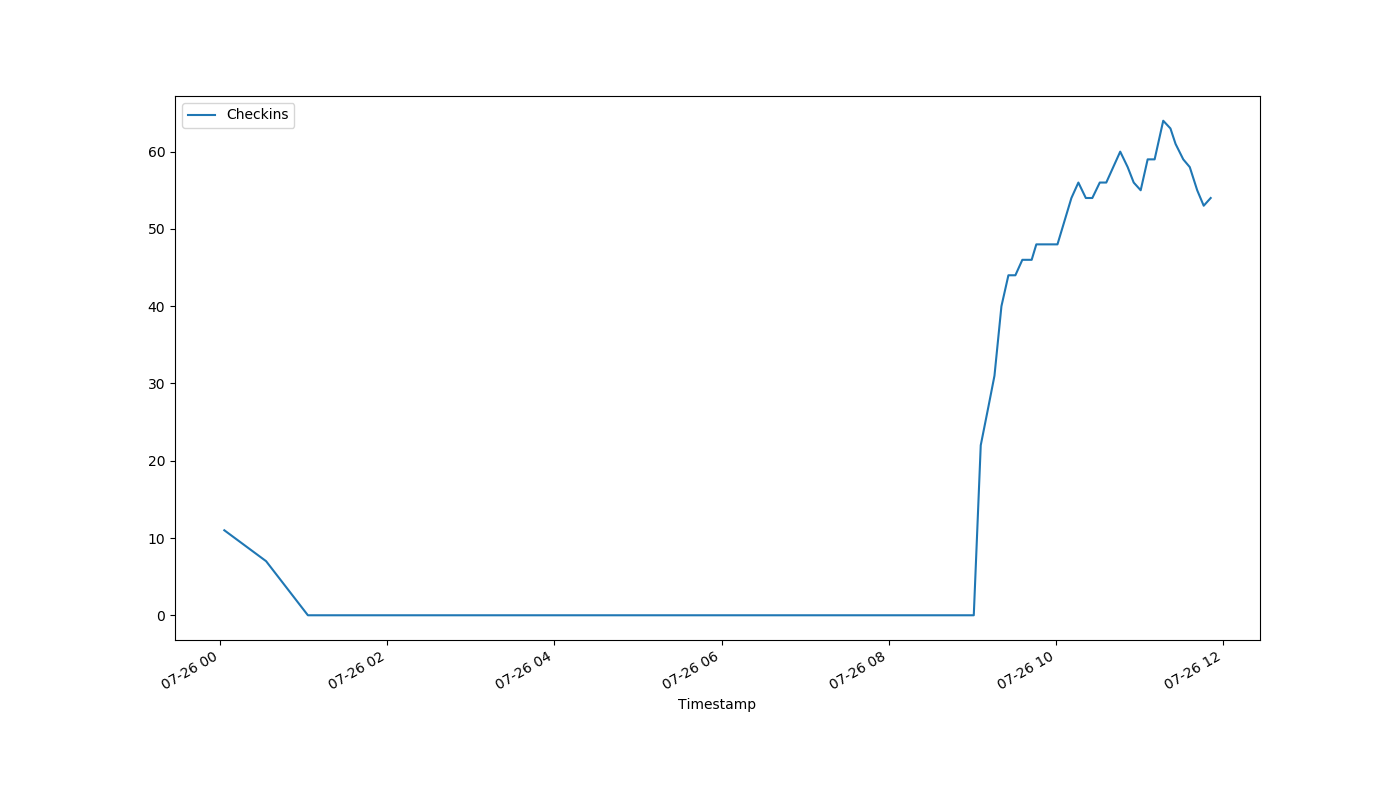
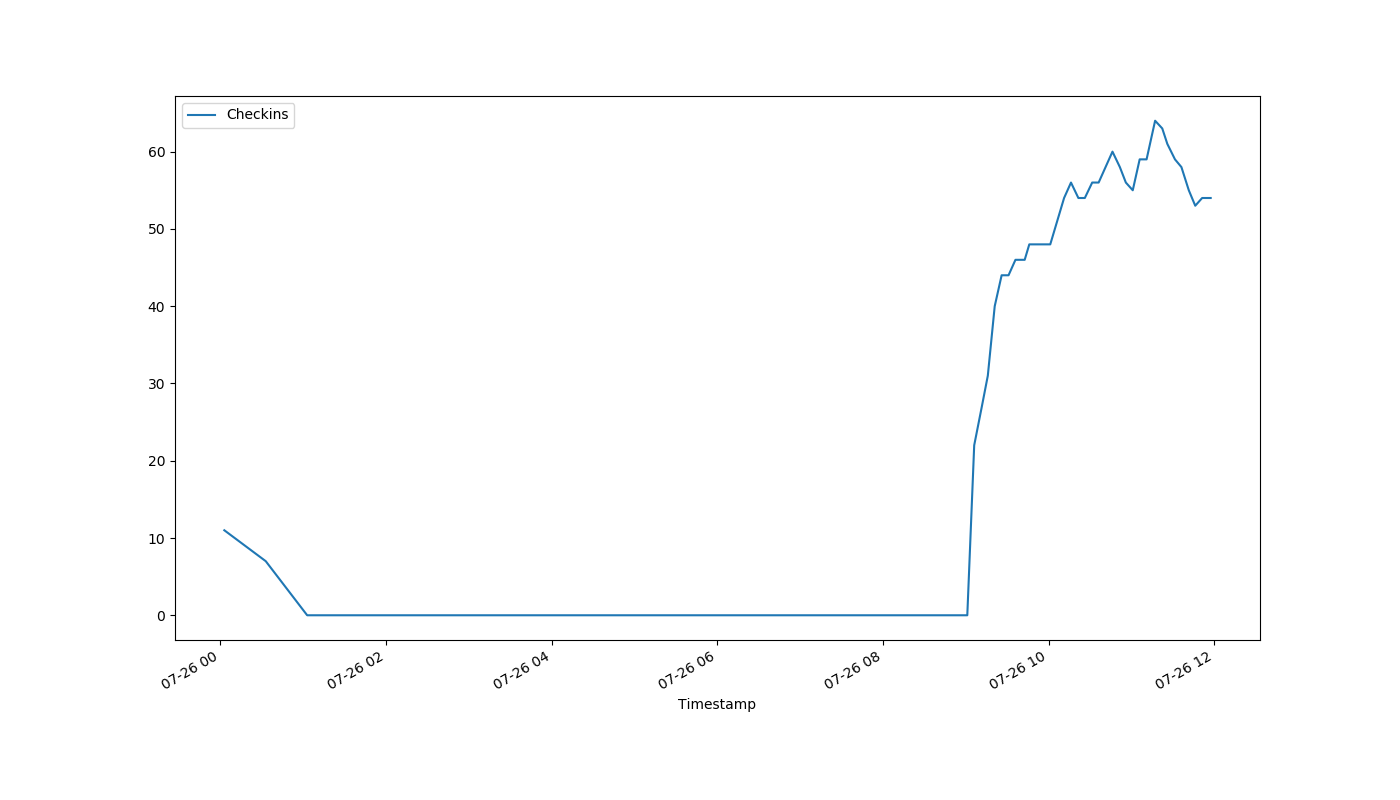
auto-Jul-26-11:59:12

diff --git a/index.html b/index.html
@@ -1,1 +1,1 @@
-<!DOCTYPE html><html><head><meta http-equiv="refresh" content="30"><link rel='stylesheet' href='holmcurrent.css'></head><body><p id='count'>54</p><div id='graph-wrap'><img id='graph' src='holmgraph-Jul-26.png'></div><p id='updated'>Last updated 11:52:00 / 11:51:18</p></body></html>
+<!DOCTYPE html><html><head><meta http-equiv="refresh" content="30"><link rel='stylesheet' href='holmcurrent.css'></head><body><p id='count'>54</p><div id='graph-wrap'><img id='graph' src='holmgraph-Jul-26.png'></div><p id='updated'>Last updated 11:58:00 / 11:57:28</p></body></html>
